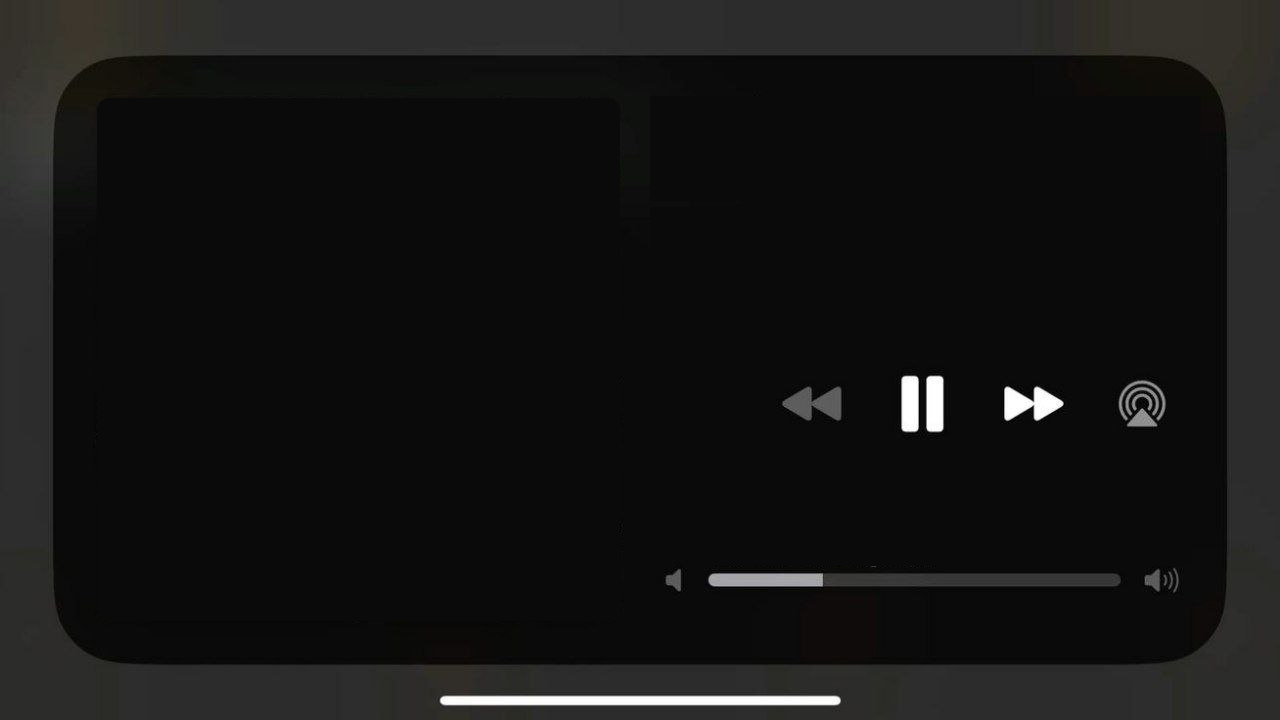
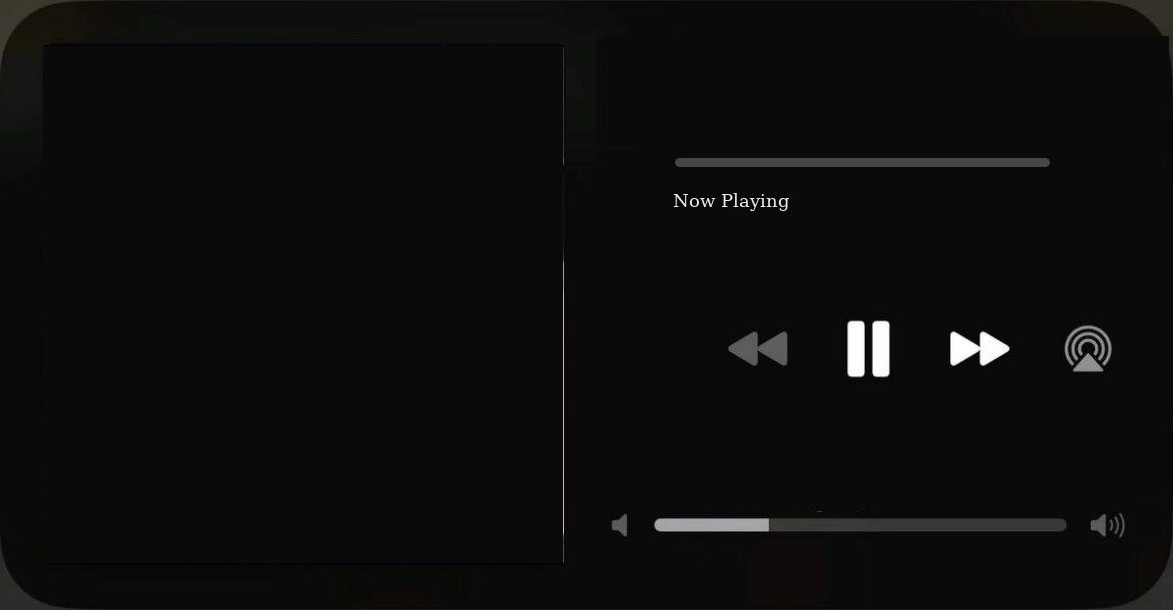
Add files via upload

diff --git a/src/vc/thumbnail.go b/src/vc/thumbnail.go
@@ -17,19 +17,21 @@ import (
 	td "github.com/AshokShau/gotdbot"
 )
 
+// player_template.png is a cleaned copy of the user's reference player card.
+// Only the artwork and track-specific text are rendered dynamically.
+//
 //go:embed player_template.png
 var playerTemplate []byte
 
 const (
-	playerWidth  = 1280
-	playerHeight = 720
+	playerWidth  = 1173
+	playerHeight = 610
 	fontRegular  = "/usr/share/fonts/truetype/dejavu/DejaVuSans.ttf"
 	fontBold     = "/usr/share/fonts/truetype/dejavu/DejaVuSans-Bold.ttf"
-	fontSerif    = "/usr/share/fonts/truetype/dejavu/DejaVuSerif.ttf"
 )
 
-// SendNowPlaying renders the track artwork into the fixed reference-style
-// player card and sends the resulting image with the existing controls.
+// SendNowPlaying renders the supplied song inside the exact reference-style
+// player card and sends that generated image with the existing controls.
 func SendNowPlaying(bot *td.Client, chatID int64, oldMessage *td.Message, song *utils.CachedTrack, mode string) (*td.Message, error) {
 	if song == nil {
 		return nil, fmt.Errorf("track is nil")
@@ -135,7 +137,7 @@ func downloadThumbnail(rawURL, path string) error {
 }
 
 func generateFallbackThumbnail(path string) error {
-	filter := "color=c=#0b0b0d:s=900x900,format=rgb24,drawbox=x=18:y=18:w=864:h=864:color=#222225@1:t=4,drawtext=fontfile='" + fontBold + "':text='MUSIC':fontcolor=white:fontsize=80:x=(w-text_w)/2:y=(h-text_h)/2"
+	filter := "color=c=#0a0a0a:s=900x900,format=rgb24,drawbox=x=2:y=2:w=896:h=896:color=#171717@1:t=3,drawtext=fontfile='" + fontBold + "':text='MUSIC':fontcolor=white:fontsize=80:x=(w-text_w)/2:y=(h-text_h)/2"
 	return runFFmpeg("-y", "-f", "lavfi", "-i", filter, "-frames:v", "1", "-q:v", "3", path)
 }
 
@@ -149,11 +151,14 @@ func renderPlayerCard(thumb, output string, song *utils.CachedTrack) error {
 	if name == "" {
 		name = "Unknown Track"
 	}
-	artist := fitText(strings.TrimSpace(song.Channel), 24)
+	artist := fitText(strings.TrimSpace(song.Channel), 25)
 	if artist == "" {
 		artist = "Unknown Artist"
 	}
-	platform := fitText(platformLabel(song.Platform), 18)
+	platform := fitText(platformLabel(song.Platform), 16)
+	if platform == "" {
+		platform = "YouTube"
+	}
 	duration := utils.SecToMin(song.Duration)
 	if duration == "" {
 		duration = "0:00"
@@ -171,7 +176,6 @@ func renderPlayerCard(thumb, output string, song *utils.CachedTrack) error {
 		"artist":    artist,
 		"elapsed":   "0:00",
 		"remaining": "-" + duration,
-		"now":       "Now Playing",
 	}
 	paths := make(map[string]string, len(texts))
 	for key, value := range texts {
@@ -182,21 +186,20 @@ func renderPlayerCard(thumb, output string, song *utils.CachedTrack) error {
 		paths[key] = path
 	}
 
-	// The supplied reference is used as the fixed visual template. Only the
-	// artwork and song-specific text/progress values are rendered dynamically.
+	// IMPORTANT: coordinates below are measured directly from the user's
+	// supplied reference image after cropping its outer phone UI. The template
+	// already contains the exact rounded card, controls, volume bar and
+	// "Now Playing" styling. We only replace the artwork and dynamic metadata.
 	filter := strings.Join([]string{
 		"[0:v]scale=520:520:force_original_aspect_ratio=increase,crop=520:520,setsar=1[art]",
-		"[1:v]scale=1280:720:force_original_aspect_ratio=disable[base]",
-		"[base][art]overlay=98:100:format=auto[v0]",
-		"[v0]drawtext=fontfile='" + fontRegular + "':textfile='" + paths["platform"] + "':fontcolor=#bcbcbc:fontsize=23:x=661:y=100[v1]",
-		"[v1]drawtext=fontfile='" + fontBold + "':textfile='" + paths["name"] + "':fontcolor=#f5f5f5:fontsize=30:x=661:y=126[v2]",
-		"[v2]drawtext=fontfile='" + fontRegular + "':textfile='" + paths["artist"] + "':fontcolor=#a9a9a9:fontsize=24:x=661:y=163[v3]",
-		"[v3]drawtext=fontfile='" + fontRegular + "':textfile='" + paths["elapsed"] + "':fontcolor=#c8c8c8:fontsize=19:x=661:y=214[v4]",
-		"[v4]drawtext=fontfile='" + fontRegular + "':textfile='" + paths["remaining"] + "':fontcolor=#c8c8c8:fontsize=19:x=1124:y=214[v5]",
-		"[v5]drawbox=x=730:y=221:w=373:h=8:color=#454545:t=fill[v6]",
-		"[v6]drawbox=x=730:y=221:w=228:h=8:color=#dcdcdc:t=fill[v7]",
-		"[v7]drawtext=fontfile='" + fontSerif + "':textfile='" + paths["now"] + "':fontcolor=#ededed:fontsize=18:x=727:y=248[v8]",
-		"[v8]format=yuvj420p[out]",
+		"[1:v]scale=1173:610:force_original_aspect_ratio=disable[base]",
+		"[base][art]overlay=44:46:format=auto[v0]",
+		"[v0]drawtext=fontfile='" + fontRegular + "':textfile='" + paths["platform"] + "':fontcolor=#bcbcbc:fontsize=22:x=607:y=42[v1]",
+		"[v1]drawtext=fontfile='" + fontBold + "':textfile='" + paths["name"] + "':fontcolor=#f4f4f4:fontsize=30:x=607:y=68[v2]",
+		"[v2]drawtext=fontfile='" + fontRegular + "':textfile='" + paths["artist"] + "':fontcolor=#a9a9a9:fontsize=23:x=607:y=106[v3]",
+		"[v3]drawtext=fontfile='" + fontRegular + "':textfile='" + paths["elapsed"] + "':fontcolor=#c8c8c8:fontsize=19:x=607:y=153[v4]",
+		"[v4]drawtext=fontfile='" + fontRegular + "':textfile='" + paths["remaining"] + "':fontcolor=#c8c8c8:fontsize=19:x=1068:y=153[v5]",
+		"[v5]format=yuvj420p[out]",
 	}, ";")
 
 	return runFFmpeg("-y", "-i", thumb, "-i", templatePath, "-filter_complex", filter, "-map", "[out]", "-frames:v", "1", "-q:v", "2", output)
